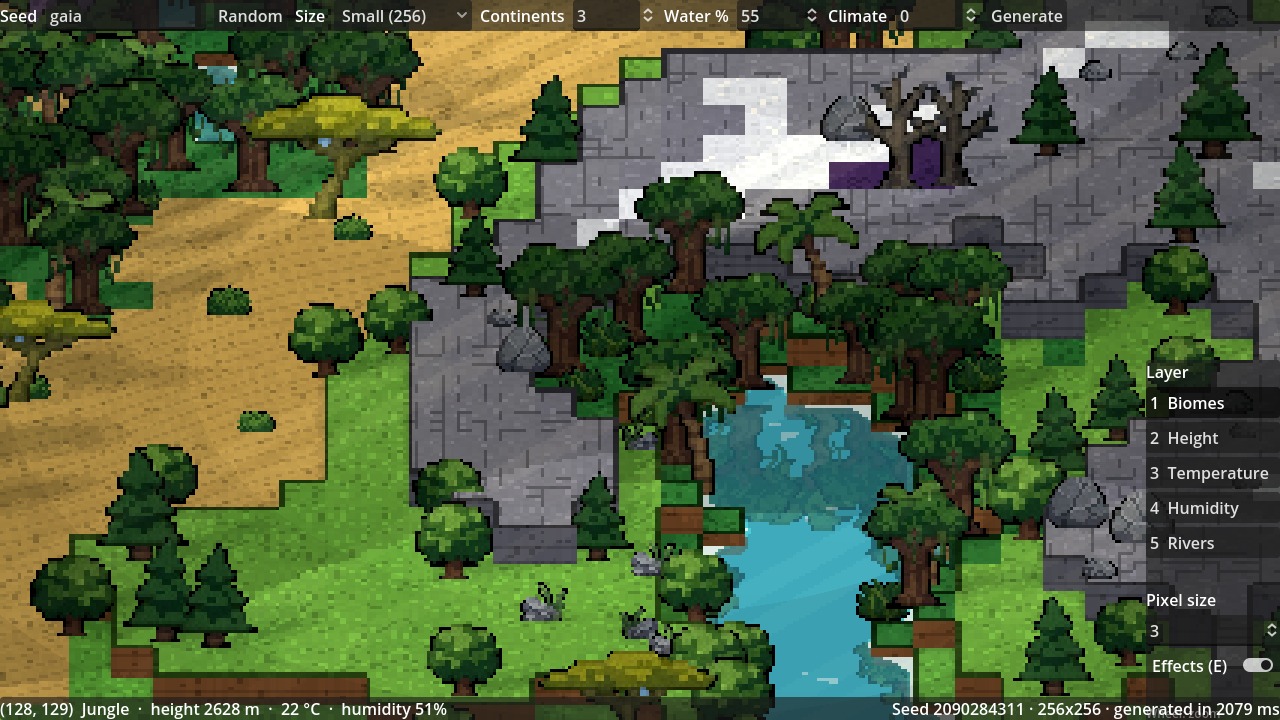
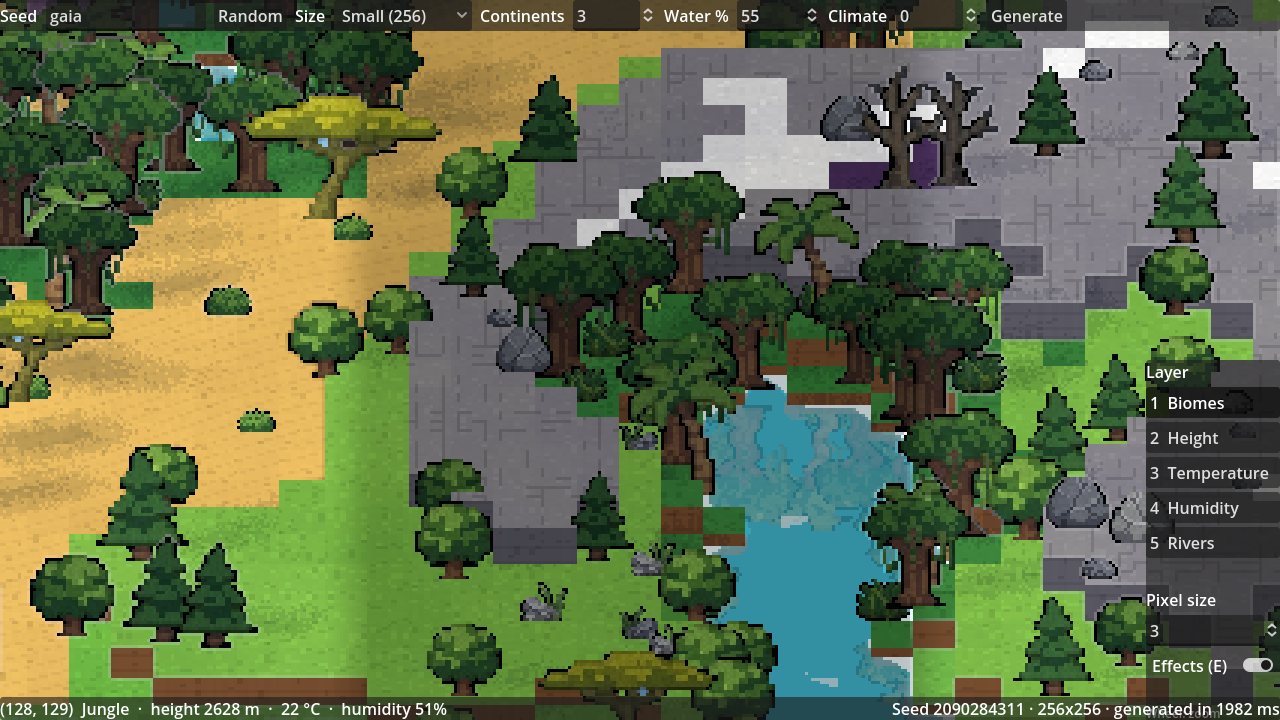
Replace homemade effects with Leo Peltola's 3D pixel-art stylizer
The light shafts, vignette, cloud shadows, cliff-edge lines and wind
sway are removed. The outline & highlight pass from Leo Peltola's
Godot-3d-pixelart-demo (MIT, copied unmodified into shaders/vendor with
its license) is drawn on a quad in front of the camera, kept the size
of the view and hidden from the reflection camera; E toggles it.

The project switches to the Forward+ renderer, which the stylizer needs
for the normal buffer. Vertex colours are converted to linear again and
the sun and ambient energies re-measured so a lit surface shows its
palette colour.

Claude-Session: https://claude.ai/code/session_01GoyuuhY9JrMPE9JVSkrvu8

diff --git a/docs/ART_DIRECTION.md b/docs/ART_DIRECTION.md
@@ -20,16 +20,17 @@ Techniques described in the article, all to be reproduced:
 
 Known limit noted by the author: a perfect outline shader for every model and camera angle is not possible at this resolution, so some edge compromises are expected.
 
-## Shader effects in the game (toggle with E)
+## Shaders in the game
+
+The game renders with Godot's **Forward+** renderer (needed for the normal buffer of the stylizer).
 
 | Effect | Where |
 |---|---|
+| Pixel-art outlines (depth edges) and highlights (normal edges), toggle with E | `shaders/vendor/pixelart_stylizer.gdshader`, by Leo Peltola (MIT), unmodified |
 | Banded toon light with dithered edges, shared by ground, sprites and water | `shaders/toon.gdshaderinc` |
-| Sprites lit like the ground, darkened in tree and cloud shadows, swaying in the wind | `shaders/sprite.gdshader` |
-| Tile-top patterns, cliff strata, 1-pixel dark outline where the ground drops, glowing lava | `shaders/terrain.gdshader` |
+| Sprites lit like the ground, darkened in tree shadows | `shaders/sprite.gdshader` |
+| Tile-top patterns, cliff strata, glowing lava | `shaders/terrain.gdshader` |
 | Water depth colours, mirrored-camera reflections with pixel ripple, glints, shore foam | `shaders/water.gdshader` |
-| Drifting cloud shadows over land and sea | `cloud_shade` in `shaders/toon.gdshaderinc` |
-| Diagonal light shafts, warm afternoon grade, vignette, per render pixel | `shaders/post.gdshader` |
 
 ## Sprites in the 3D world
 

diff --git a/README.md b/README.md
@@ -28,7 +28,7 @@ godot --path . --script res://tools/asset_sheet.gd -- <nature|peoples|creatures>
 
 ## Running the game
 
-Requires [Godot 4.3](https://godotengine.org/download) (standard version, not .NET).
+Requires [Godot 4.3](https://godotengine.org/download) (standard version, not .NET) and a GPU with Vulkan (the game uses the Forward+ renderer).
 
 1. Open Godot, click **Import**, and pick `project.godot` in this folder.
 2. Press **F5** to run.
@@ -42,7 +42,7 @@ Controls:
 | New random world | R or the **Random** button |
 | Map layers | 1 Biomes · 2 Height · 3 Temperature · 4 Humidity · 5 Rivers |
 | Pixel size | **Pixel size** box (1 = full resolution, 3 = default) |
-| Effects on / off (wind, clouds, outlines, light shafts) | E |
+| Pixel-art outlines and highlights on / off | E |
 | Tile info | hover the map (bottom bar) |
 
 Type any word or number as the seed: the same seed and settings always give the same world.
